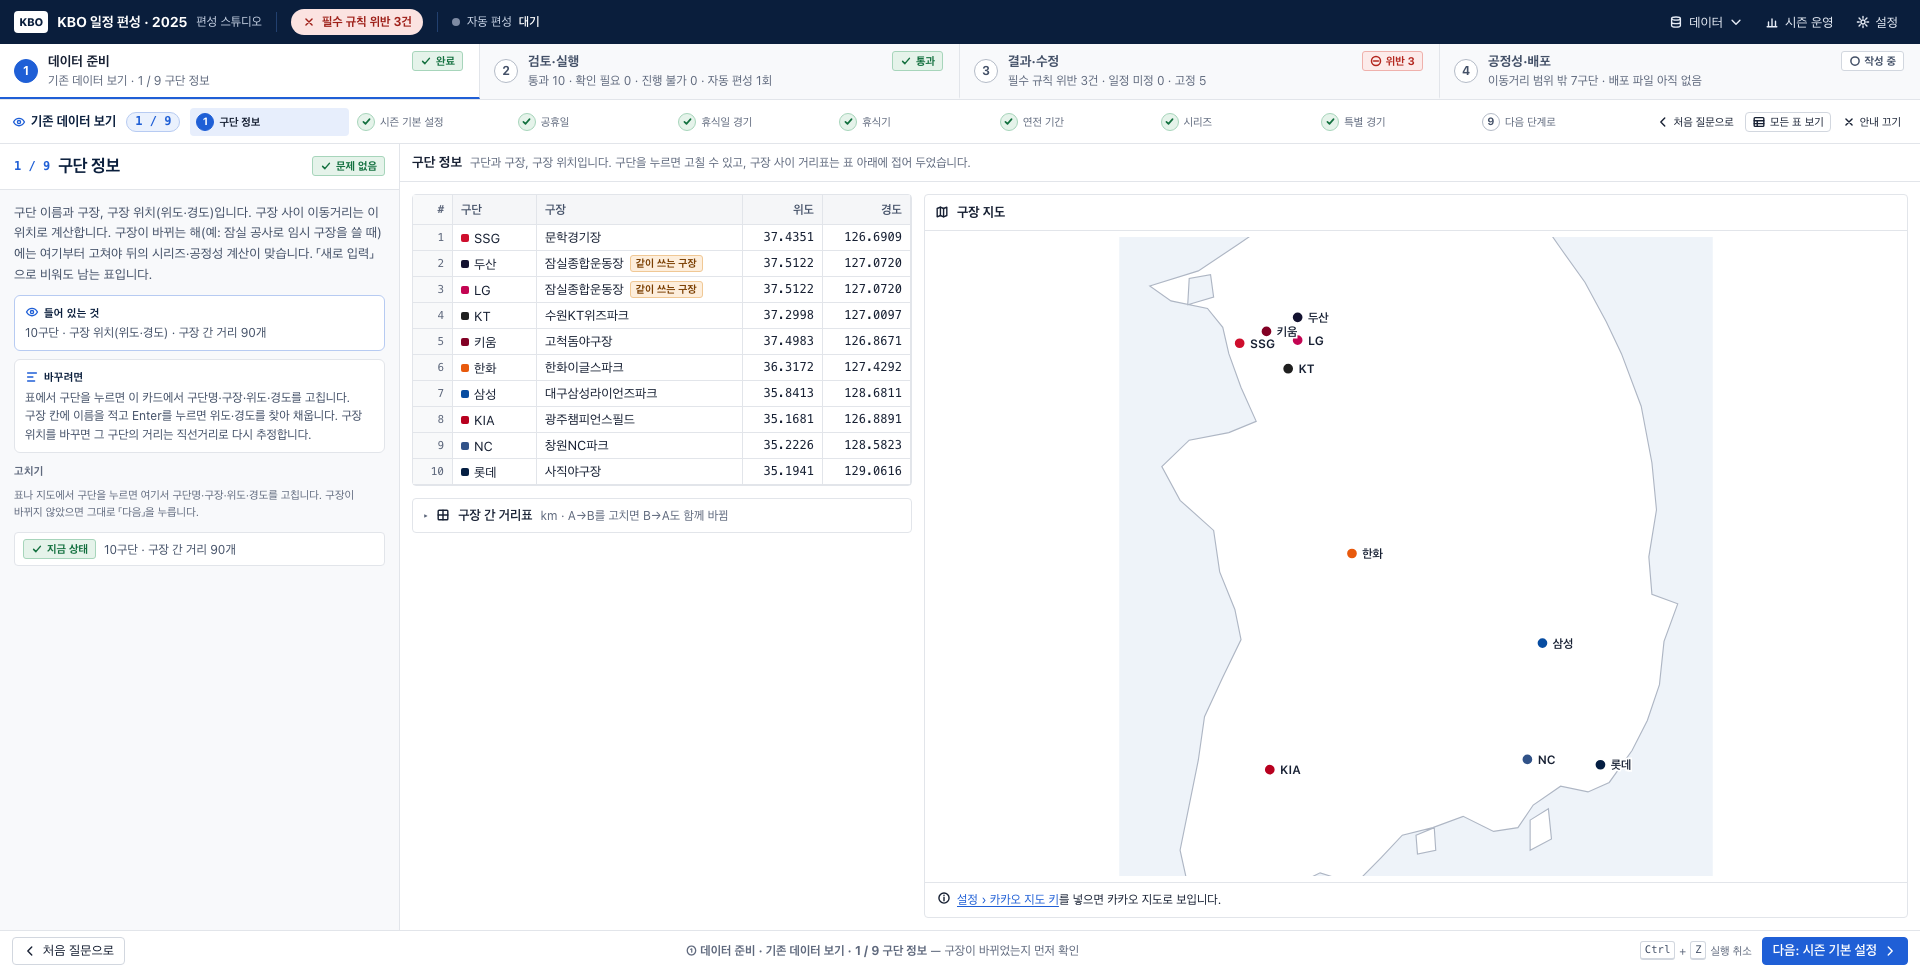
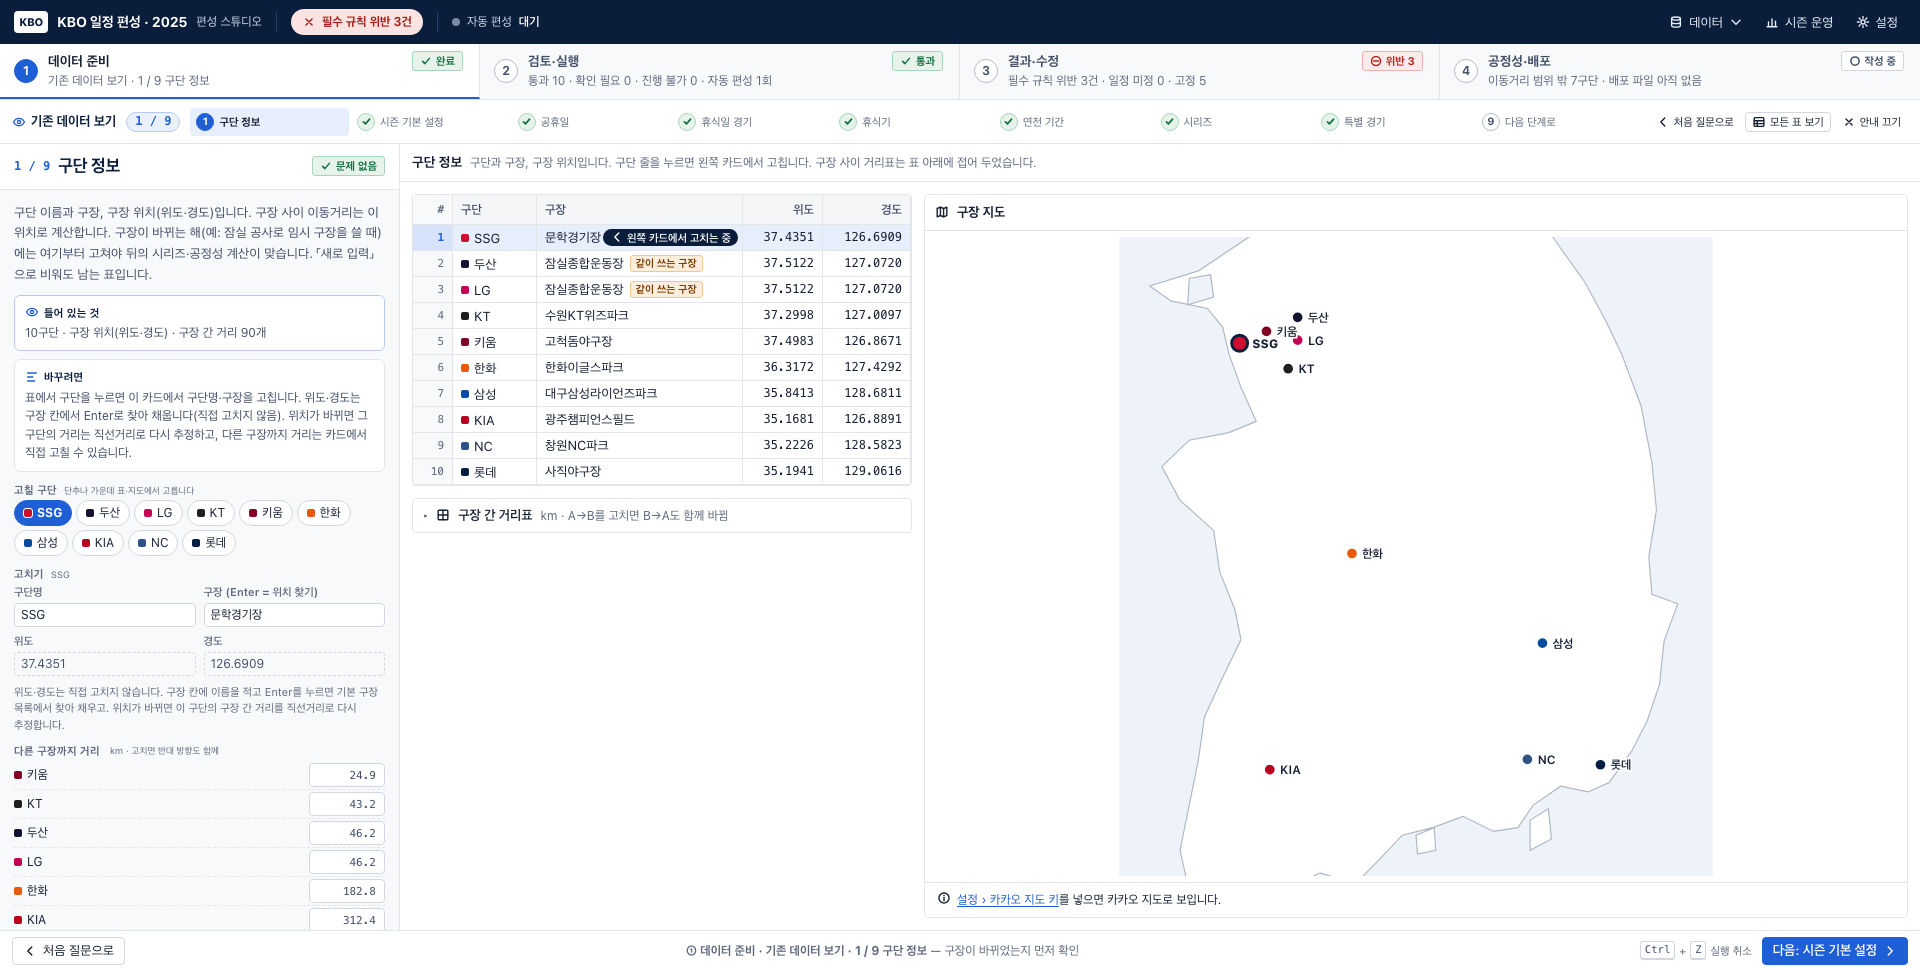
편성 스튜디오 ① 구단 정보: 카드에서 바로 고르기 — 첫 구단이 골라진 채 시작하고, 구단 단추 10개로 바꾸며, 표 줄에 「눌러서 고치기」를 보인다.
- 단계별 화면의 구단 정보에 들어오면 첫 구단(SSG)을 골라 카드에 고치는 칸이 처음부터 보임
- 카드 위 「고칠 구단」 단추 10개(구단 색), 표·지도에서 골라도 같이 바뀜
- 표: 줄 전체(번호 칸 포함)를 눌러 고름, 마우스를 올리면 「눌러서 고치기」, 고른 줄은 「왼쪽 카드에서 고치는 중」(모든 표 보기에서는 「오른쪽에서 고치는 중」)
- 구단이 골라져 있어도 Alt+→ / Alt+← 단계 이동이 되게
- 자가 점검 139(구단 단추·줄 표시·줄 누르기·Alt 이동), 스크린샷 g-view-1-teams·g-new-1-teams

diff --git a/ui/app/studio/guide-steps.js b/ui/app/studio/guide-steps.js
@@ -176,7 +176,9 @@
     const a = app(), busy = a.roadBusy && (a.roadBusy === 'all' || a.roadBusy.has(t.name));
     const dist = (o) => '<div class="gs-line gs-dist">' + S.team(o.n) + '<span class="gs-v">' + (o.est ? '<span class="tag ref" title="직선거리 × 도로계수로 추정한 값">추정</span>' : o.road ? '<span class="tag road" title="카카오모빌리티 길찾기(자동차)로 받은 도로거리">도로</span>' : '') +
       '<input class="input xs mono gs-km" data-in="team-dist" data-from="' + esc(t.name) + '" data-to="' + esc(o.n) + '" value="' + (o.d == null ? '' : Number(o.d).toFixed(1)) + '" inputmode="decimal" aria-label="' + esc(t.name + ' → ' + o.n + ' 거리(km)') + '"></span></div>';
-    return '<div class="gs-sub">고치기 <small>' + esc(t.name) + '</small></div>' +
+    const pickRow = '<div class="gs-pickteam" role="radiogroup" aria-label="고칠 구단">' + st.teams.map((x, k) => '<button class="gs-tbtn' + (k === i ? ' on' : '') + '" data-act="team-sel" data-row="' + k + '" role="radio" aria-checked="' + (k === i) + '" style="--tc:' + esc(x.color || '#555') + '"><i></i>' + esc(x.name) + '</button>').join('') + '</div>';
+    return '<div class="gs-sub">고칠 구단 <small>단추나 가운데 표·지도에서 고릅니다</small></div>' + pickRow +
+      '<div class="gs-sub">고치기 <small>' + esc(t.name) + '</small></div>' +
       '<div class="gs-form gs-team"><div class="gs-form-row">' + inp('name', '구단명', t.name) + inp('stadium', '구장 (Enter = 위치 찾기)', stdV, '구장 이름') + '</div><div class="gs-form-row">' + ro('위도', t.latitude.toFixed(4)) + ro('경도', t.longitude.toFixed(4)) + '</div></div>' +
       (kakaoMap ? (picking
         ? '<div class="gs-find pick">' + icon('move') + ' 오른쪽 지도에서 새 구장 자리를 누르세요. 누른 곳의 위도·경도로 채웁니다. <button class="btn xs" data-act="g1-map-pick-off">취소</button></div>'
@@ -277,6 +279,8 @@
       if (G.lastTab != null && S.ui.tab !== G.lastTab) { const k = tasks().findIndex((x) => x.tab === S.ui.tab); if (k >= 0) { G.i = k + 1; store.set({ at: G.i }); } }
       const t = cur();
       if (t.tab) S.ui.tab = t.tab;
+      // 구단 정보: 처음부터 첫 구단을 골라 카드에 고치는 칸이 보이게 한다(「여기서 고친다」가 바로 보이도록)
+      if (t.tab === 'teams' && app().state.teams.length) { const c = S.ui.cell; if (!c || c.sheet !== 'teams' || !app().state.teams[c.row]) S.ui.cell = { sheet: 'teams', row: 0, col: 'name' }; }
       G.lastTab = S.ui.tab;
       let main;
       if (t.id === 'next') main = nextMain();
@@ -320,7 +324,7 @@
       // 한글 입력 중(마지막 글자 조합 중)의 Enter는 조합을 끝내는 키라 건너뛴다 — 맥 Chrome은 조합 Enter 뒤에 보통 Enter를 한 번 더 보낸다
       if (e.key === 'Enter' && !e.isComposing && e.keyCode !== 229 && e.target.matches && e.target.matches('.gs-team input[data-k="stadium"]')) { e.preventDefault(); G.findP = findStadium(+e.target.dataset.row, e.target.value); return true; }
       const tag = (e.target.tagName || '').toLowerCase();
-      if (tag === 'input' || tag === 'textarea' || tag === 'select' || S.ui.edit || S.ui.cell) return false;
+      if (tag === 'input' || tag === 'textarea' || tag === 'select' || S.ui.edit || (S.ui.cell && S.ui.cell.sheet !== 'teams')) return false; // 구단 정보는 늘 한 구단이 골라져 있으니 막지 않는다
       if (e.altKey && e.key === 'ArrowRight') { e.preventDefault(); if (G.i < N()) show(G.i + 1); return true; }
       if (e.altKey && e.key === 'ArrowLeft') { e.preventDefault(); if (G.i > 1) show(G.i - 1); return true; }
       return false;
@@ -361,7 +365,19 @@
       ok('단계별: 처음 방문 → 「어떻게 시작할까요?」 두 선택(새로 입력 / 기존 데이터 보기), 그 밖의 것은 없음', G.mode === null && qa('.gs-pick').length === 2 && !!q('.gs-pick[data-v="new"]') && !!q('.gs-pick[data-v="view"]') && noExtras() && !q('.gs-card') && /g=ask/.test(hashOf()) && /어떻게 시작할지/.test(q('.step[data-step="1"] .step-sum').textContent), 'mode ' + G.mode + ' · picks ' + qa('.gs-pick').length + ' · extras ' + !noExtras() + ' · hash ' + hashOf() + ' · sum ' + q('.step[data-step="1"] .step-sum').textContent);
       // 2. 기존 데이터 보기 → 1 / 9 구단 정보 → 2 시즌 기본 설정(예시 데이터 값 그대로)
       click('.gs-pick[data-v="view"]'); flush();
-      ok('단계별: 「기존 데이터를 볼게요」 → 1 / ' + N() + ' 구단 정보 · 10구단 · 들어 있는 것/바꾸려면 · 표 안내', G.mode === 'view' && G.i === 1 && !S.isBlank() && S.ui.tab === 'teams' && card0().getAttribute('data-page') === 'teams' && !!q('.gs-view') && !!q('.gs-edit') && /10구단/.test(card0().textContent) && /구장이 바뀌었는지/.test(document.body.textContent) && !q('.gs-team') && noExtras() && /g=view&gs=1/.test(hashOf()), 'mode ' + G.mode + ' · i ' + G.i + ' · tab ' + S.ui.tab + ' · hash ' + hashOf());
+      ok('단계별: 「기존 데이터를 볼게요」 → 1 / ' + N() + ' 구단 정보 · 10구단 · 들어 있는 것/바꾸려면 · 표 안내', G.mode === 'view' && G.i === 1 && !S.isBlank() && S.ui.tab === 'teams' && card0().getAttribute('data-page') === 'teams' && !!q('.gs-view') && !!q('.gs-edit') && /10구단/.test(card0().textContent) && /구장이 바뀌었는지/.test(document.body.textContent) && !!q('.gs-team') && /고치기 SSG/.test(card0().textContent) && noExtras() && /g=view&gs=1/.test(hashOf()), 'mode ' + G.mode + ' · i ' + G.i + ' · tab ' + S.ui.tab + ' · hash ' + hashOf());
+      // 카드에서 바로 고르기: 첫 구단이 골라져 있고, 구단 단추 10개 · 표 줄에 「눌러서 고치기」(고른 줄은 「고치는 중」)
+      const btns = () => qa('.gs-card .gs-pickteam .gs-tbtn');
+      const pick0 = btns().length === 10 && btns()[0].classList.contains('on') && q('.pane.main tbody tr.sel') === qa('.pane.main tbody tr')[0] && qa('.pane.main .tm-edit-hint').length === 10 && /왼쪽 카드에서 고치는 중/.test(q('.pane.main tbody tr.sel .tm-edit-hint').textContent) && /눌러서 고치기/.test(qa('.pane.main .tm-edit-hint')[1].textContent) && q('#teamMapHost .kmap-active').getAttribute('data-id') === '0';
+      click('.gs-card .gs-pickteam .gs-tbtn[data-row="3"]'); flush();
+      const pick3 = /고치기 KT/.test(card0().textContent) && btns()[3].classList.contains('on') && q('.pane.main tbody tr.sel') === qa('.pane.main tbody tr')[3];
+      click('.pane.main tbody tr[data-row="5"] td.rn'); flush();
+      const rowPick = /고치기 한화/.test(card0().textContent);
+      ok('단계별: 구단 정보 — 첫 구단이 골라진 채 시작 · 카드의 구단 단추 10개로 바꿈 · 표 줄(번호 칸 포함) 눌러도 바뀜 · 줄에 「눌러서 고치기」', pick0 && pick3 && rowPick, 'pick0 ' + pick0 + ' · pick3 ' + pick3 + ' · row ' + rowPick);
+      document.body.dispatchEvent(new KeyboardEvent('keydown', { key: 'ArrowRight', altKey: true, bubbles: true, cancelable: true })); flush();
+      const altOk = G.i === I('season');
+      document.body.dispatchEvent(new KeyboardEvent('keydown', { key: 'ArrowLeft', altKey: true, bubbles: true, cancelable: true })); flush();
+      ok('단계별: 구단이 골라져 있어도 Alt+→ / Alt+← 로 단계 이동', altOk && G.i === 1, 'i ' + G.i);
       click('.footer [data-act="g1-next"]'); flush();
       ok('단계별: 다음 → 2 시즌 기본 설정 · 2025 값 그대로 · 요약 상자 없음 · 「다음: 공휴일」', G.i === I('season') && S.ui.tab === 'season' && /개막 3\/22\(토\)/.test(card0().textContent) && q('.form-grid input[data-k="seasonStart"]').value === fmt.date('2025-03-22') && !q('.season-subs') && !q('.gs-card .gs-acts') && qa('.gs-steps li').length === N() && /다음: 공휴일/.test(q('.footer .btn.primary').textContent) && /2 \/ 9/.test(q('.gs-pos').textContent));
       const order = [];

diff --git a/ui/app/studio/step-data.js b/ui/app/studio/step-data.js
@@ -468,13 +468,15 @@
     const st = app().state, u = S.ui;
     const sel = u.cell && u.cell.sheet === 'teams' ? u.cell.row : -1;
     const shared = app().sharedStadiums();
-    let s = '<div class="pane-head"><span class="pane-title">구단 정보</span><span class="pane-desc">구단과 구장, 구장 위치입니다. 구단을 누르면 고칠 수 있고, 구장 사이 거리표는 표 아래에 접어 두었습니다.</span></div>';
+    const stepwise = !!(S.g1 && (S.g1.mode === 'new' || S.g1.mode === 'view')); // 단계별 화면이면 왼쪽 카드, 모든 표 보기면 오른쪽 자세히에서 고친다
+    let s = '<div class="pane-head"><span class="pane-title">구단 정보</span><span class="pane-desc">구단과 구장, 구장 위치입니다. 구단 줄을 누르면 ' + (stepwise ? '왼쪽 카드' : '오른쪽') + '에서 고칩니다. 구장 사이 거리표는 표 아래에 접어 두었습니다.</span></div>';
     s += '<div class="pane-body pad tm-body" data-sk="d-teams"><div class="tm-grid"><div class="tm-left">';
     s += '<div class="blk"><table class="sheet tm-table"><colgroup><col style="width:40px"><col style="width:84px"><col><col style="width:80px"><col style="width:88px"></colgroup><thead><tr><th class="rn">#</th><th>구단</th><th>구장</th><th class="num">위도</th><th class="num">경도</th></tr></thead><tbody>' +
       st.teams.map((t, i) => {
         const sh = shared.get(t.stadium);
         const tip = t.stadium + (sh ? ' · 같이 쓰는 구장(' + sh.join('·') + ')' : '');
-        return '<tr class="' + (i === sel ? 'sel' : '') + '"><td class="rn">' + (i + 1) + '</td><td class="cell" data-act="team-sel" data-row="' + i + '">' + S.team(t.name) + '</td><td class="cell tm-std" data-act="team-sel" data-row="' + i + '" title="' + esc(tip) + '"><span class="tm-std-n">' + esc(t.stadium) + '</span>' + (sh ? '<span class="tag shared">같이 쓰는 구장</span>' : '') + '</td><td class="num mono cell" data-act="team-sel" data-row="' + i + '">' + t.latitude.toFixed(4) + '</td><td class="num mono cell" data-act="team-sel" data-row="' + i + '">' + t.longitude.toFixed(4) + '</td></tr>';
+        const hint = i === sel ? (stepwise ? '왼쪽 카드에서 고치는 중' : '오른쪽에서 고치는 중') : '눌러서 고치기';
+        return '<tr class="' + (i === sel ? 'sel' : '') + '" data-act="team-sel" data-row="' + i + '"><td class="rn">' + (i + 1) + '</td><td class="cell" data-act="team-sel" data-row="' + i + '">' + S.team(t.name) + '</td><td class="cell tm-std" data-act="team-sel" data-row="' + i + '" title="' + esc(tip) + '"><span class="tm-std-n">' + esc(t.stadium) + '</span>' + (sh ? '<span class="tag shared">같이 쓰는 구장</span>' : '') + '<span class="tm-edit-hint">' + (i === sel ? icon('left') : icon('edit')) + hint + '</span></td><td class="num mono cell" data-act="team-sel" data-row="' + i + '">' + t.latitude.toFixed(4) + '</td><td class="num mono cell" data-act="team-sel" data-row="' + i + '">' + t.longitude.toFixed(4) + '</td></tr>';
       }).join('') + '</tbody></table></div>';
     if (app().roadApi) {
       const dm = st.distanceMatrix.filter((d) => d.from !== d.to);

diff --git a/ui/app/studio/studio.css b/ui/app/studio/studio.css
@@ -1187,6 +1187,17 @@ svg.mc text { font-family: var(--font); }
 .gs-sub-row .btn, .gs-sub-row .gs-road-busy { margin-left: auto; }
 .gs-road-busy { display: inline-flex; align-items: center; gap: 4px; font-size: var(--fs-xs); color: var(--blue); font-weight: 600; letter-spacing: 0; }
 .tm-road { display: flex; align-items: center; gap: 10px; flex-wrap: wrap; }
+.gs-pickteam { display: flex; flex-wrap: wrap; gap: 4px; margin: 2px 0 6px; }
+.gs-tbtn { display: inline-flex; align-items: center; gap: 5px; height: 26px; padding: 0 9px; border: 1px solid var(--line-2, var(--line)); border-radius: 13px; background: var(--surface); font: inherit; font-size: var(--fs-s); color: var(--text); cursor: pointer; }
+.gs-tbtn i { width: 8px; height: 8px; border-radius: 2px; background: var(--tc); }
+.gs-tbtn:hover { border-color: var(--blue); background: var(--blue-weak); }
+.gs-tbtn.on { border-color: var(--blue); background: var(--blue); color: #fff; font-weight: 700; }
+.gs-tbtn.on i { outline: 1px solid #fff; }
+.tm-table tbody tr { cursor: pointer; }
+.tm-table td.tm-std { position: relative; }
+.tm-edit-hint { position: absolute; right: 4px; top: 50%; transform: translateY(-50%); display: none; align-items: center; gap: 3px; padding: 1px 7px; border-radius: 10px; background: var(--blue); color: #fff; font-size: 11px; font-weight: 600; white-space: nowrap; pointer-events: none; }
+.tm-table tbody tr:hover .tm-edit-hint { display: inline-flex; }
+.tm-table tbody tr.sel .tm-edit-hint { display: inline-flex; background: var(--navy); }
 .gs-km { width: 76px; text-align: right; height: 24px; }
 .gs-km.err { border-color: var(--bad); background: #FFF6F5; }
 .gs-form .input.ro { background: var(--surface-2); color: var(--text-2); border-style: dashed; cursor: default; }

diff --git a/ui/app/studio/base.js b/ui/app/studio/base.js
@@ -38,6 +38,7 @@
     rowAbove: '<path d="M2.5 9.5h11v4h-11zM8 2.5v4.5M5.8 4.7L8 2.5l2.2 2.2"/>',
     rowBelow: '<path d="M2.5 2.5h11v4h-11zM8 9v4.5M5.8 11.3L8 13.5l2.2-2.2"/>',
     trash: '<path d="M3.5 4.5h9M6.5 4.5V3h3v1.5M4.8 4.5l.6 8.8h5.2l.6-8.8"/>',
+    edit: '<path d="M10.6 3.1l2.3 2.3L6.2 12.1l-2.9.6.6-2.9z"/><path d="M9.3 4.4l2.3 2.3"/>',
     left: '<path d="M10 3.5L5.5 8l4.5 4.5"/>',
     right: '<path d="M6 3.5L10.5 8 6 12.5"/>',
     down: '<path d="M3.5 6l4.5 4.5L12.5 6"/>',
